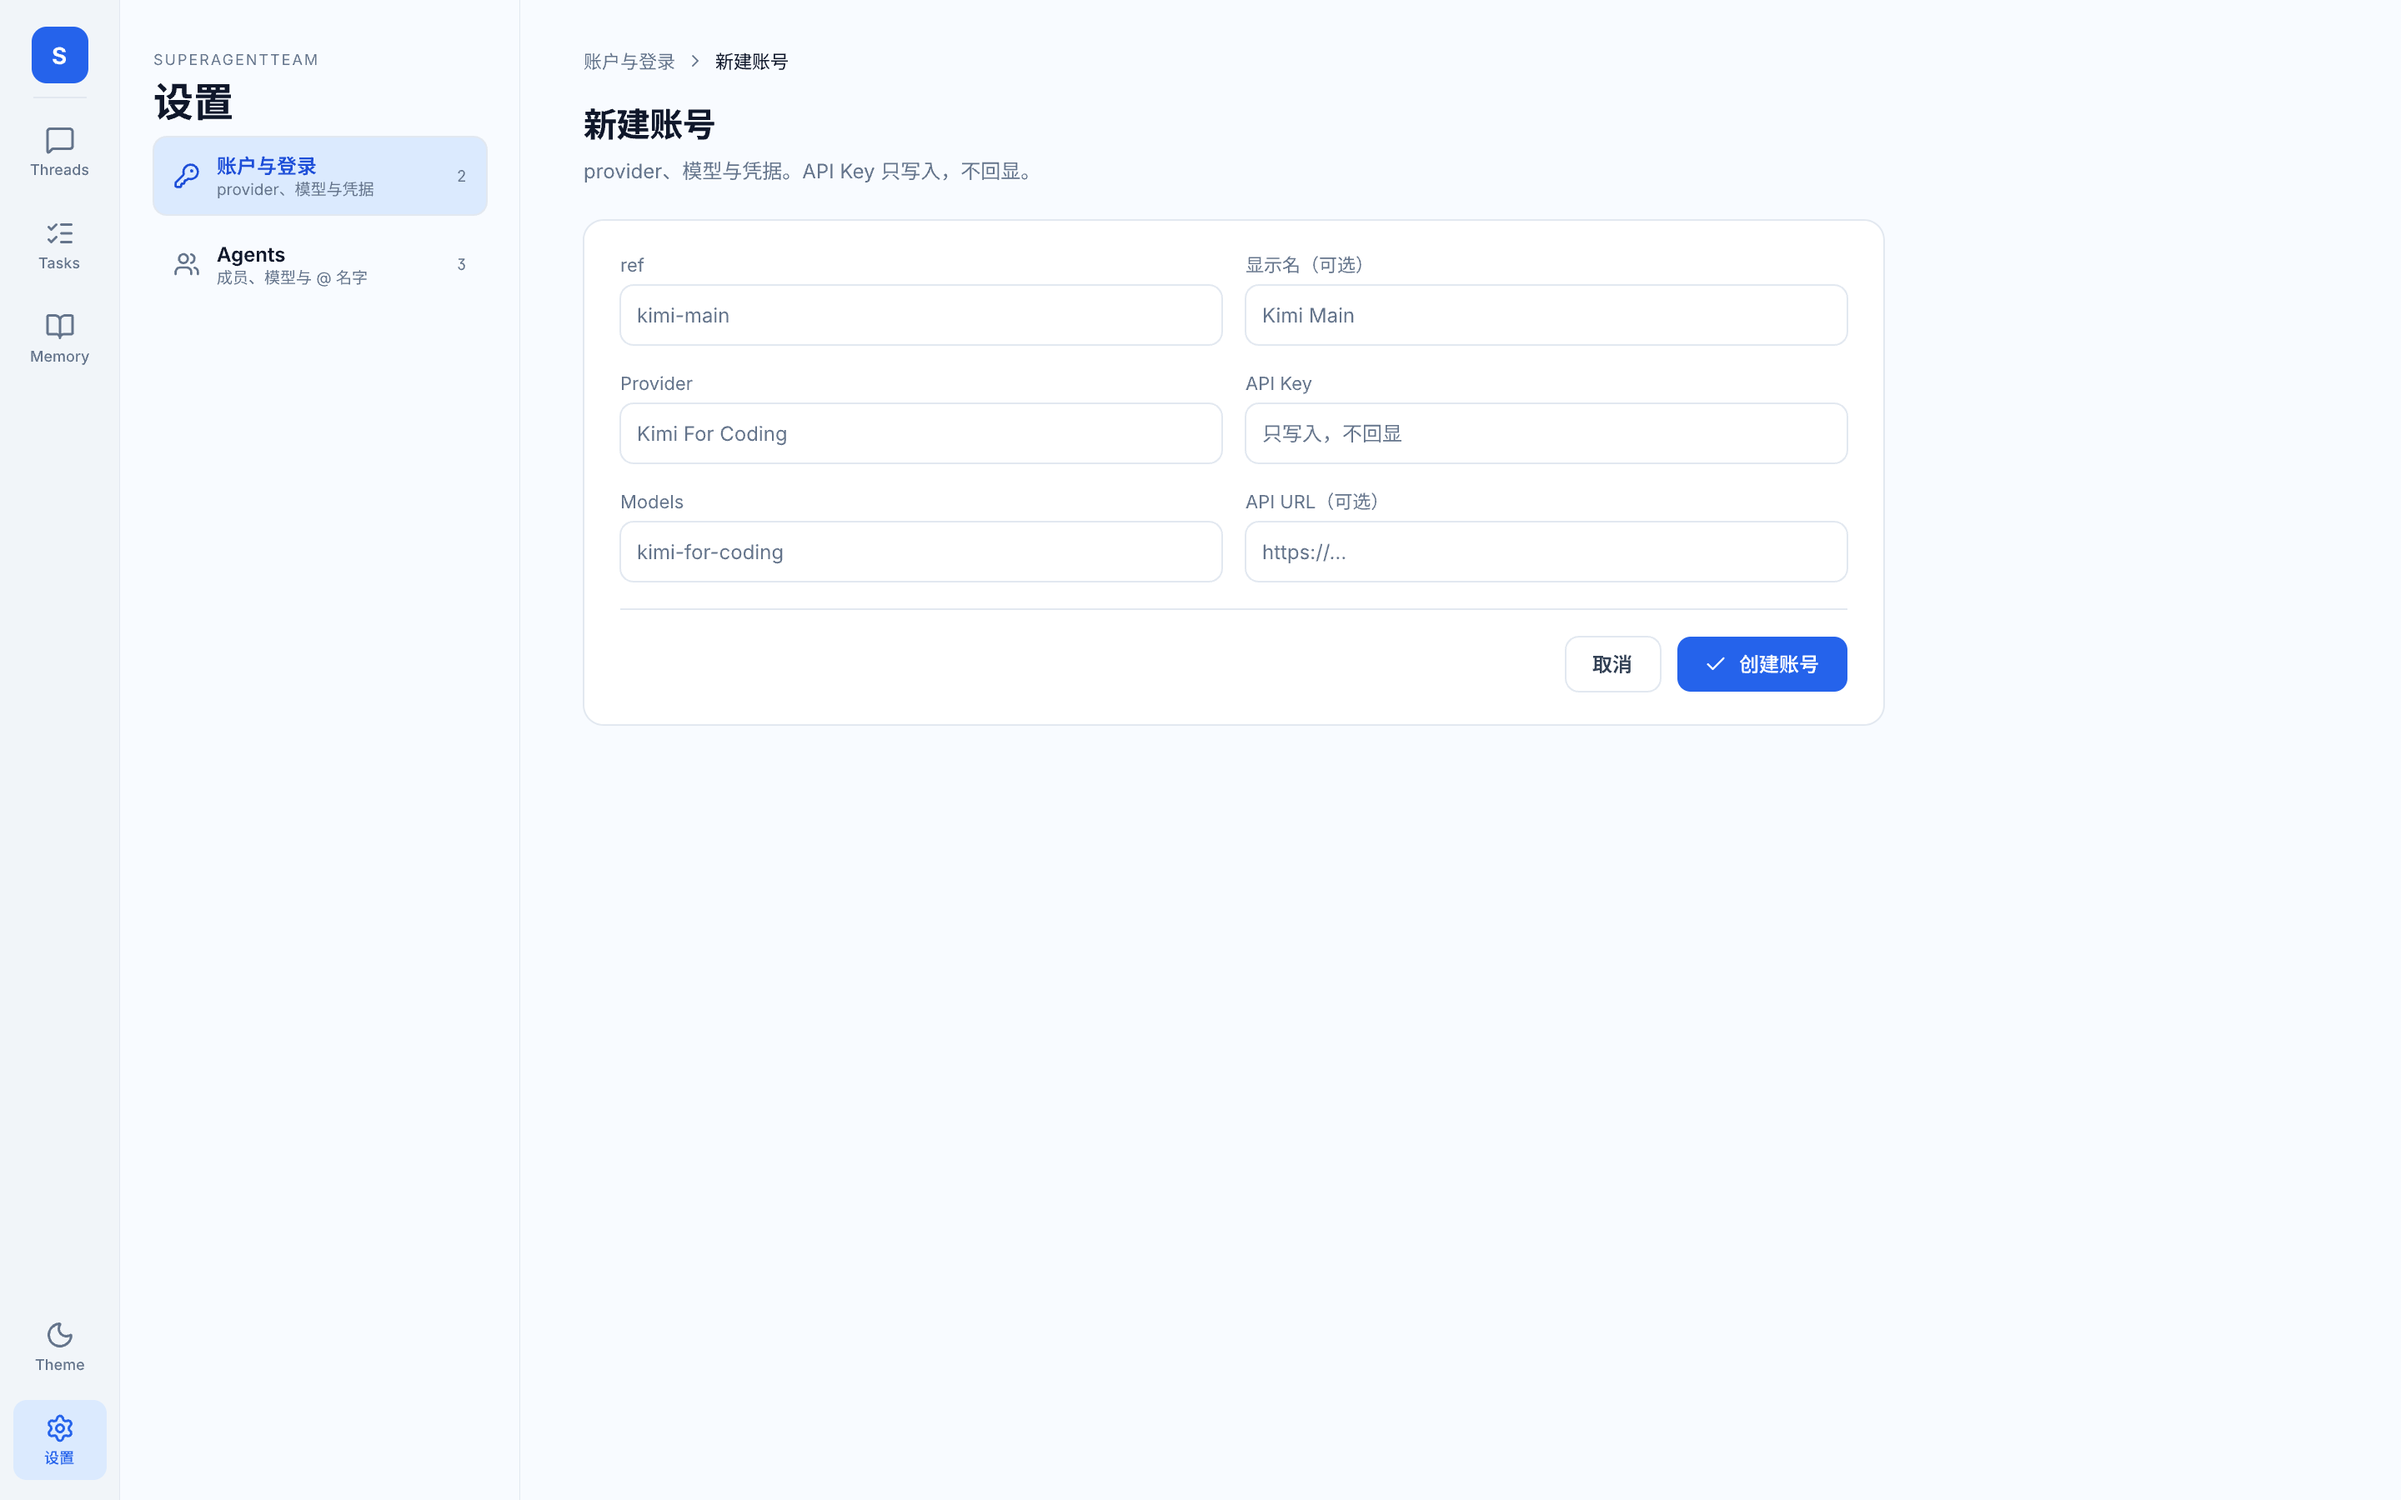
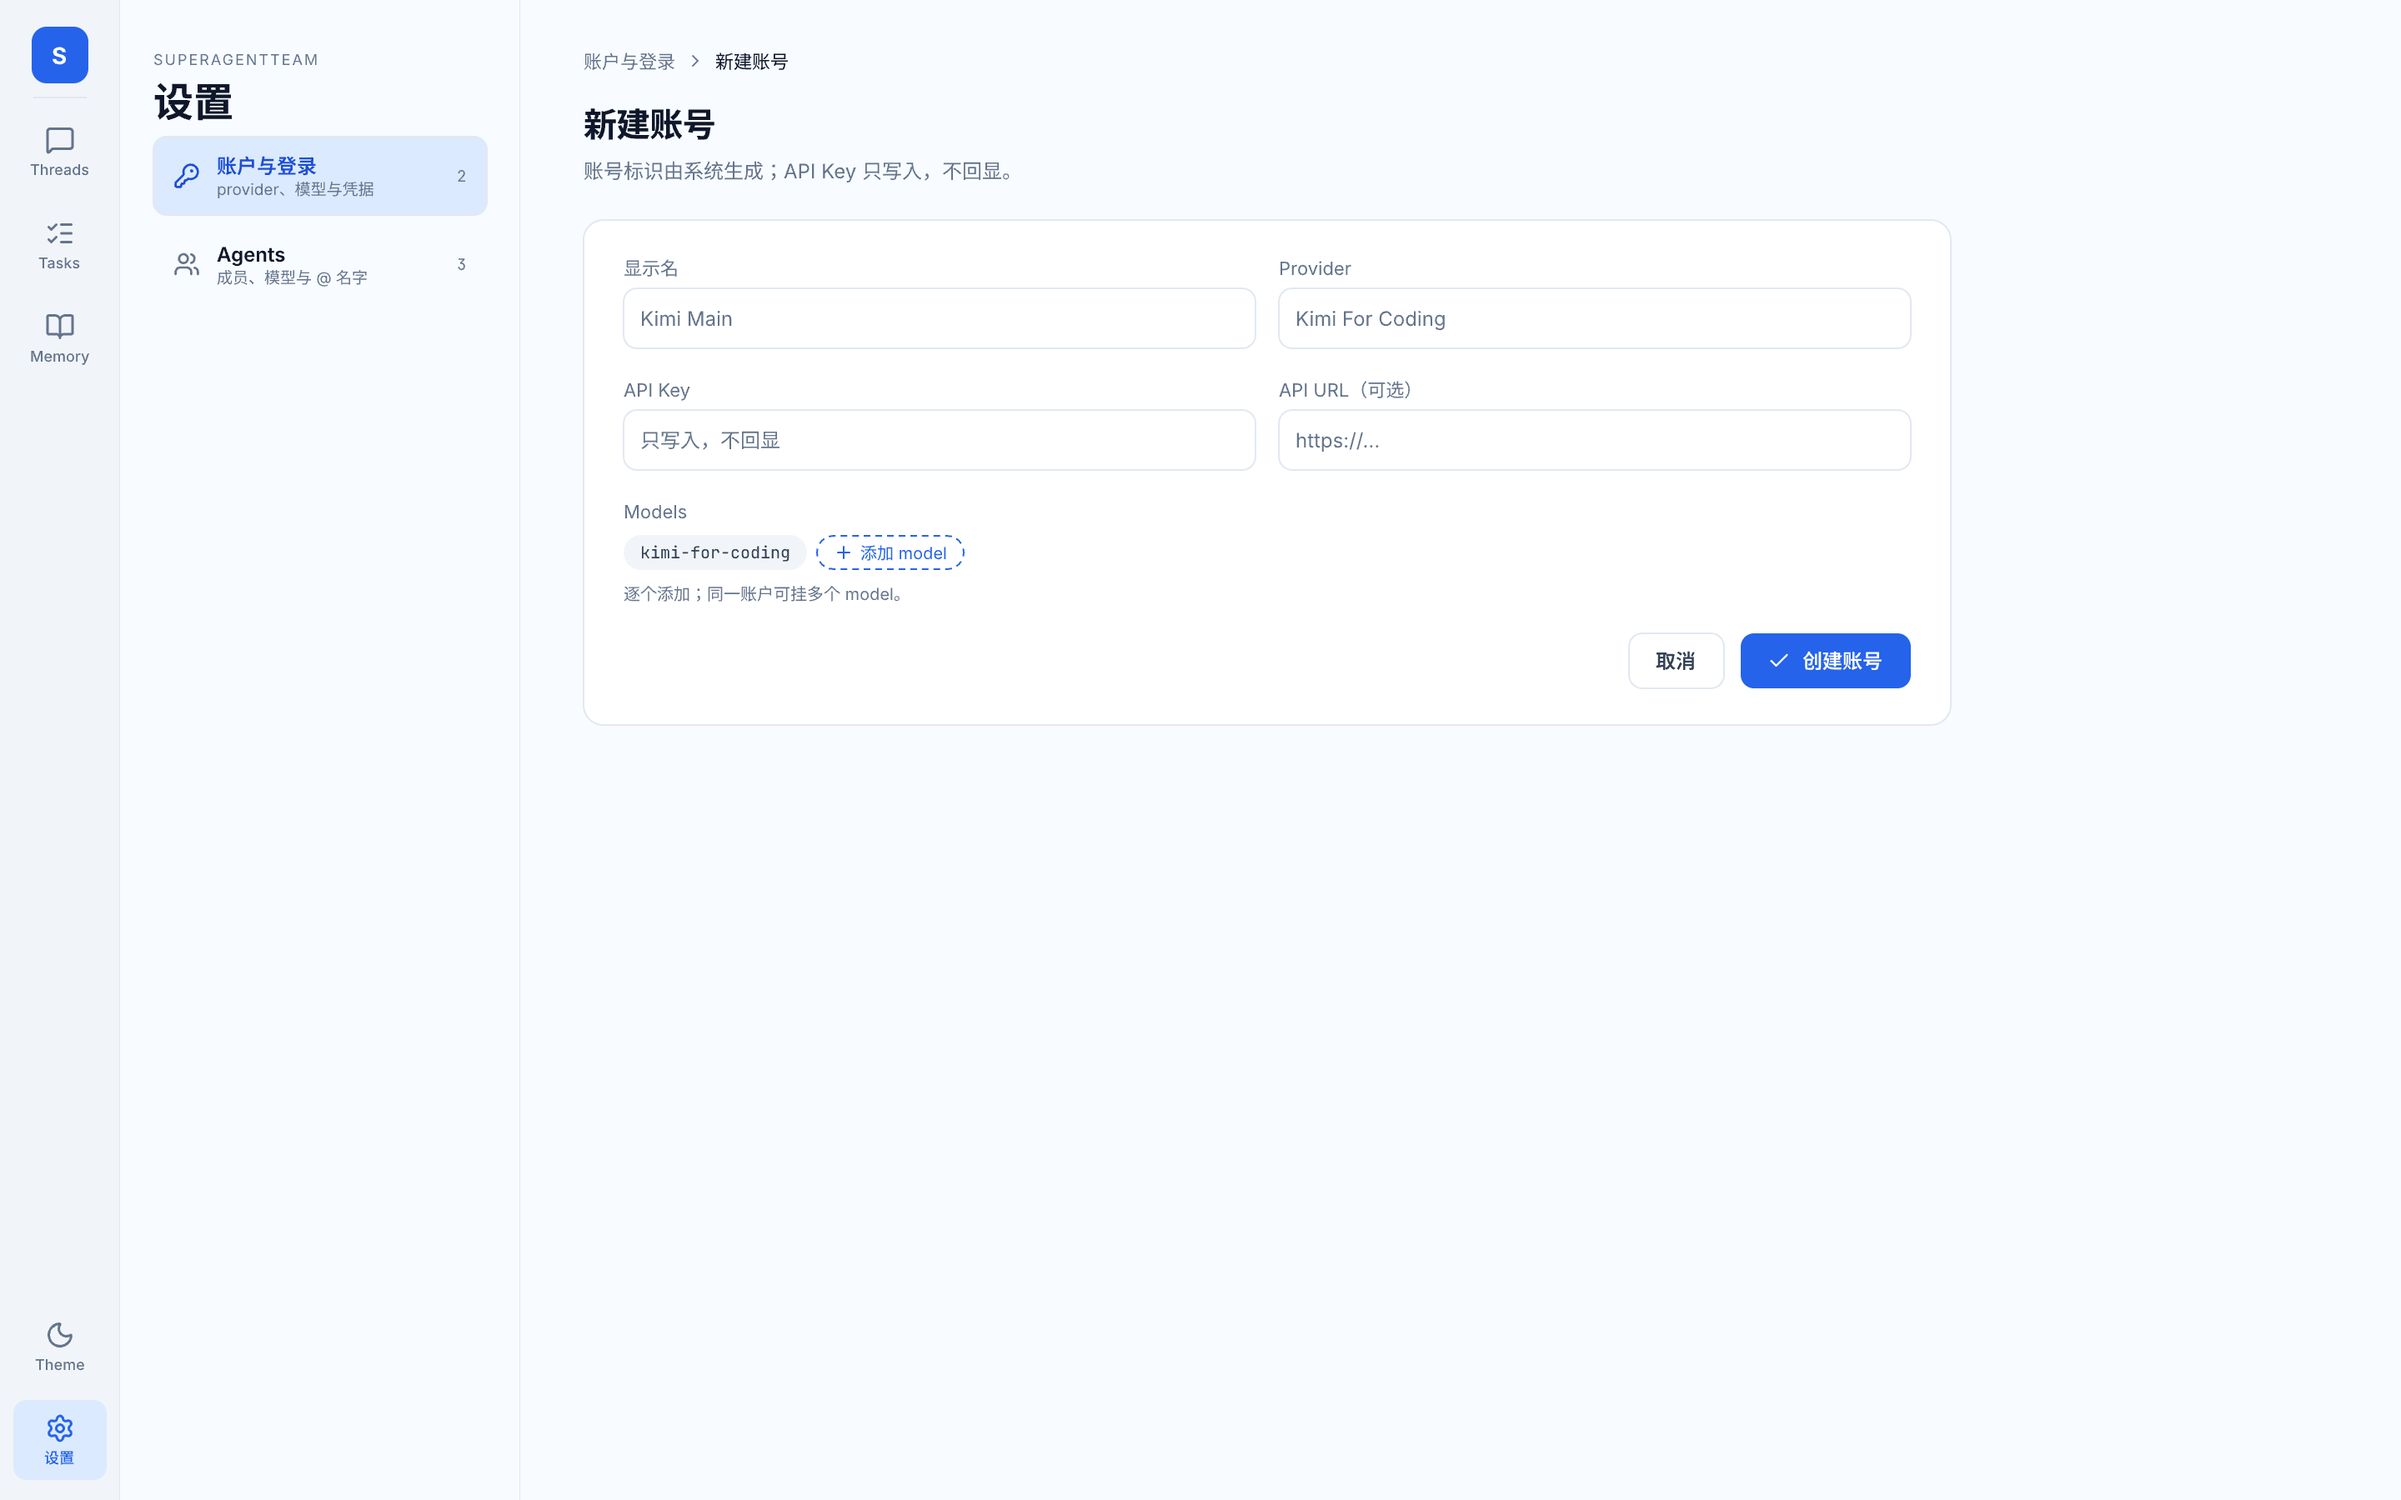
docs(f035): revise create-page designs per operator feedback
Why: the account form asked for an internal ref and a free-text models
field, and the agent form did not follow the Clowder identity -> model
structure. Remove ref and the stray divider, add per-model chips, and
split the agent form into identity/职责 plus account/model with auto id,
avatar and member color.

diff --git a/docs/features/F035-settings-hub.md b/docs/features/F035-settings-hub.md
@@ -67,5 +67,8 @@ source_decision: "operator 2026-11-25: add Settings at the bottom of the sidebar
 - 结构统一为：NavRail + 设置子导航（图标/说明/计数）+ 内容；设置与 threads 平级。
 - Pencil 源文件 `docs/design/F035/F035-settings.pen`（画布已建，待 operator 保存后入库）。
 - 2026-11-25（operator）：侧边栏移除 Agents 入口（NavRail 与 ThreadSidebar 均不再放 Agents），Agents 管理只在设置页；设计稿四屏同步去掉 rail 的 Agents。
+- 2026-11-25（operator design feedback v2）：
+  - 新建账号：移除 `ref` 字段（标识由系统生成）；Models 改为逐个添加的 chip + “添加 model”；删除表单分隔横线。
+  - 新建 Agent：参考 Clowder 的“身份与职责 → 模型与工具”信息层级（配色仍用本产品 token）；id 不再手填（后台生成）；身份段含名字/呼叫别名/职责/头像/成员主色；第二段为 Account/Model/Role/启用。
 
 [宪宪/deepseek-flash🐾]
